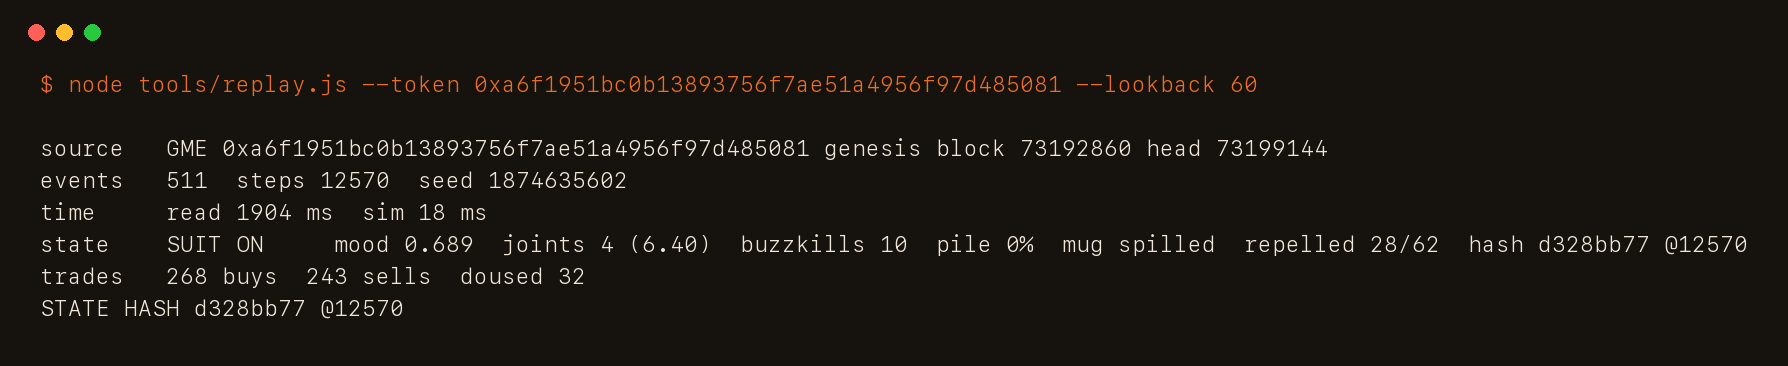
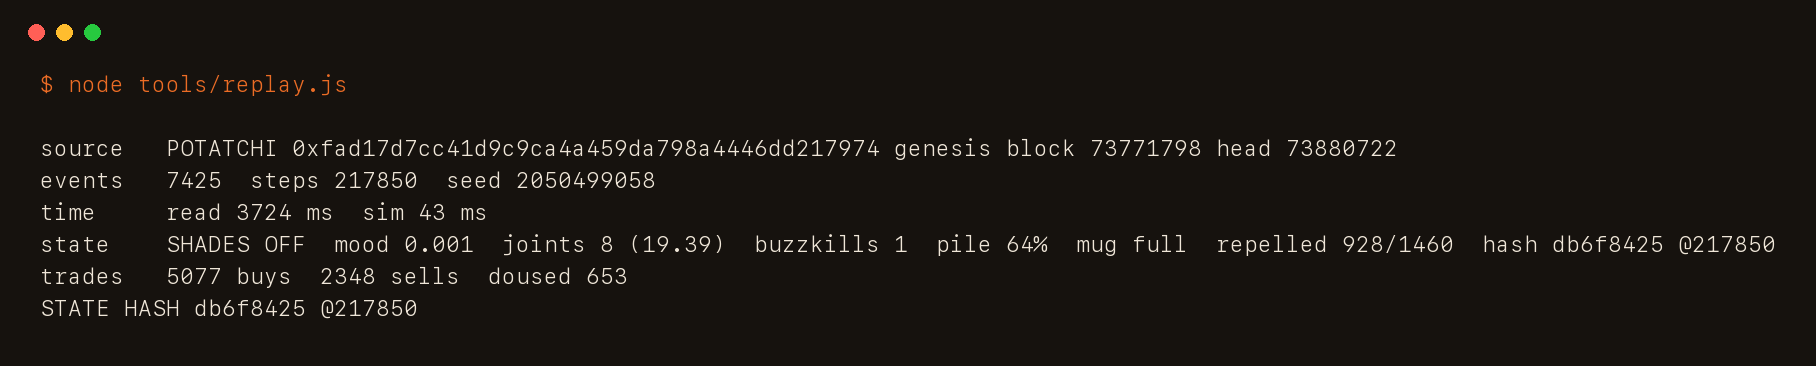
New README images: the live scene, a neuroscan of his brain, the brain plate
tools/scan.js reads the token's trades and prints a scan of the joint's
brain: which regions fired and how often, drawn as a text plate. The old
screenshots with walking buzzkills and the demo band are gone; every image
comes from the current build on POTATCHI.

diff --git a/tools/scan.js b/tools/scan.js
@@ -1,0 +1,86 @@
+// A neuroscan of the joint's brain, read off the chain. It replays the
+// token's trades, counts what each region of the (made-up) brain answered
+// to and prints a scan report with the brain drawn in text, the busier a
+// region the denser its glyphs. The anatomy is a joke; every number in the
+// readings comes from real trades.
+//
+//   node tools/scan.js [0xTOKEN] [--window MIN]
+import { genesis, applyEvent, simStep, simHash, STAGES, SIM } from "../src/engine.js";
+import { DirectFeed } from "../src/feed.js";
+import { REGIONS } from "../src/brain.js";
+import { parseArgs, loadConfig } from "./common.js";
+
+const args = parseArgs();
+const cfg = loadConfig();
+const token = args.token || cfg.token;
+const windowMin = Number(args.window || 30);
+
+const feed = new DirectFeed({ ...cfg, token, lookbackMin: 0 });
+await feed.init();
+const S = genesis(feed.seed);
+const end = feed.safeStep();
+const from = end - windowMin * 1200;
+const hits = { cb1: 0, ember: 0, paranoia: 0, mug: 0, bud: 0, munchie: 0 };
+let buys = 0, sells = 0, i = 0, peak = 0;
+for (let st = 0; st < end; st++) {
+  while (i < feed.events.length && feed.events[i].step <= S.step) {
+    if (feed.events[i].step === S.step) applyEvent(S, feed.events[i]);
+    i++;
+  }
+  simStep(S);
+  if (S.step >= from) {
+    for (const r of S.out) {
+      if (r.t === "trade" && r.eth >= SIM.DUST) {
+        hits.munchie++;
+        if (r.side > 0) { hits.cb1++; buys++; } else { hits.ember++; sells++; }
+      }
+      if (r.t === "kill") hits.paranoia++;
+      if (r.t === "spill" || r.t === "refill") hits.mug++;
+    }
+    peak = Math.max(peak, S.mood);
+  }
+  S.out.length = 0;
+}
+const pile = Math.max(0, 1 - Math.min(1, S.melt) / 0.8);
+hits.bud = Math.round(pile * 100);
+const max = Math.max(1, ...Object.values(hits));
+
+// the brain, as a text plate: each cell belongs to the nearest region
+const W = 58, H = 17;
+const at = { cb1: [0.25, 0.3], mug: [0.21, 0.62], bud: [0.52, 0.18], paranoia: [0.8, 0.34], ember: [0.52, 0.5], munchie: [0.66, 0.9] };
+const ramp = " .:-=+*#%@";
+const lines = [];
+for (let y = 0; y < H; y++) {
+  let row = "";
+  for (let x = 0; x < W; x++) {
+    const u = x / (W - 1), v = y / (H - 1);
+    const cortex = ((u - 0.5) / 0.47) ** 2 + ((v - 0.4) / 0.37) ** 2 < 1;
+    const cereb = ((u - 0.76) / 0.15) ** 2 + ((v - 0.76) / 0.12) ** 2 < 1;
+    const stem = Math.abs(u - (0.62 + (v - 0.7) * 0.2)) < 0.035 && v > 0.66;
+    if (!cortex && !cereb && !stem) { row += " "; continue; }
+    let best = "cb1", bd = Infinity;
+    for (const k in at) {
+      const d = (u - at[k][0]) ** 2 + (v - at[k][1]) ** 2;
+      if (d < bd) { bd = d; best = k; }
+    }
+    const level = hits[best] / max;
+    const n = (Math.sin(x * 12.9898 + y * 78.233) * 43758.5453) % 1;
+    const idx = Math.min(9, Math.max(1, Math.round(level * 8 + Math.abs(n) * 2)));
+    row += ramp[idx];
+  }
+  lines.push(row);
+}
+
+const pad = (s, n) => String(s).padEnd(n);
+const bar = (f) => "█".repeat(Math.round(f * 20)).padEnd(20, "·");
+console.log(`WEEDBRAIN NEUROSCAN v0.4    subject ${feed.meta.symbol} ${feed.meta.token.slice(0, 10)}…    window ${windowMin} min`);
+console.log(`chain 4663 · block ${feed.safeBlk.toLocaleString("en-US")} · state ${simHash(S)} @${S.step}`);
+console.log("");
+for (const l of lines) console.log("    " + l);
+console.log("");
+console.log("REGION            READING               HITS   WHAT FIRED IT");
+const why = { cb1: "buys", ember: "sells", paranoia: "buzzkills sent", mug: "spills and refills", bud: "% of pile left", munchie: "every trade" };
+for (const r of REGIONS) console.log(`${pad(r.name, 17)} ${bar(hits[r.key] / max)}  ${String(hits[r.key]).padStart(4)}   ${why[r.key]}`);
+console.log("");
+console.log(`buys ${buys} · sells ${sells} · peak mood ${STAGES[Math.min(9, Math.floor(peak * 10))]} · now ${STAGES[S.stage]}`);
+console.log(`DIAGNOSIS  ${S.stage <= 2 ? "high, stable, asking for snacks" : S.stage <= 5 ? "soaked and irritable, mug down" : "armed. do not approach"}`);

diff --git a/tools/make-images.py b/tools/make-images.py
@@ -38,7 +38,27 @@ def terminal(out, cmd, text):
     for i, c in enumerate([(255, 95, 86), (255, 189, 46), (39, 201, 63)]):
         d.ellipse((28 + i * 28, 24, 44 + i * 28, 40), fill=c)
     y = 70
+    heat = {c: i for i, c in enumerate(" .:-=+*#%@")}
     for l in lines:
+        if l.startswith("    ") and set(l.strip()) <= set(heat) and l.strip():
+            # a scan plate: each glyph coloured by its density, green to ember
+            x = 40
+            for ch in l:
+                k = heat.get(ch, 0) / 9
+                col = tuple(int(a + (b - a) * k) for a, b in zip((126, 148, 69), (245, 120, 40)))
+                d.text((x, y), ch, font=f, fill=col)
+                x += f.getlength(ch)
+            y += lh
+            continue
+        if "█" in l:
+            head, rest = l[:18], l[18:]
+            d.text((40, y), head, font=f, fill=INK)
+            x = 40 + f.getlength(head)
+            for ch in rest:
+                d.text((x, y), ch, font=f, fill=ORANGE if ch == "█" else DIM)
+                x += f.getlength(ch)
+            y += lh
+            continue
         col = INK
         if l.startswith("$"):
             col = ORANGE
@@ -47,6 +67,10 @@ def terminal(out, cmd, text):
         elif "BUY" in l[:16]:
             col = GREEN
         elif l.startswith("  [") or l.startswith("          "):
+            col = DIM
+        elif l.startswith("DIAGNOSIS") or l.startswith("WEEDBRAIN NEUROSCAN"):
+            col = ORANGE
+        elif l.startswith("REGION") or l.startswith("chain "):
             col = DIM
         if "HASH" in l or "hash" in l.split("  ")[-1:][0]:
             pass

diff --git a/README.md b/README.md
@@ -6,7 +6,7 @@ A giant joint with a burning head lies in a pile of buds and smokes a smaller jo
 Buys throw him joints, sells send buzzkills to put them out, the pile melts with the drawdown and one big sell knocks his mug over.
 Everything he does is computed from the trades of one Pons v2 token on Robinhood Chain and anyone can recompute it.
 
-![The live scene at SHADES OFF: a full pile, joints burning, buzzkills wading in](docs/img/shades.png)
+![The live scene: every trade pops a card over his face, sells in red](docs/img/scene.png)
 
 ## Why a joint
 
@@ -16,13 +16,15 @@ The burning tip on his head is the tell. Calm, it glows. Angry, it flares. It is
 
 The story has a hinge. At first he is flat out in the pile with his shades on, then heavy-eyed, then reaching for his mug. A big sell knocks the mug over and pours it all over him and from there he is angry about something real: soaked, fists, the suit, the gun at the camera, firing and at the very bottom the whole frame blows apart. He does not die. The next buys bring him back and a fresh mug with them.
 
-![A big sell knocks the mug over: SPILLED](docs/img/spilled.png)
+![The neuroscan: his brain read off the last 30 minutes of trades](docs/img/scan.png)
+
+`node tools/scan.js` scans the joint's brain from the chain: every buy lights the CB1 LOBE, every sell the EMBER NUCLEUS, every buzzkill the PARANOIA TRACT, every spill the MUG CORTEX. The anatomy is invented; the readings are counted from real trades.
 
 ## The site
 
 The site is built like a lab instrument, not a crypto landing page: paper background, thin rules, one accent (the ember orange), monospaced tabular numbers everywhere, headings small and rare.
 
-![The first screen: the contract bar and the live specimen](docs/img/site-hero.png)
+![The first screen: the contract and the live specimen](docs/img/site-hero.png)
 
 - **The first screen** is the live specimen. Above it only a short title and, under it, the contract in large type in an ember frame, a copy button and the buy button, which stays inactive until `ca` is set. The header with the buy button stays on top while scrolling.
 - **The counters** under the scene: holders, trades in 24 h, market cap in ETH, the stage, the time in it, the last update and the block.
@@ -30,9 +32,9 @@ The site is built like a lab instrument, not a crypto landing page: paper backgr
 - **The brain of a joint** is a made-up anatomy plate: a point cloud of about 58,000 neurons packed into bud-shaped lumps, with thin shells where the lobes end, drawn with three.js and turning slowly (drag to rotate). Six regions answer to the chain: a buy lights the CB1 LOBE, a sell heats the EMBER NUCLEUS, a buzzkill wakes the PARANOIA TRACT, a spill jolts the MUG CORTEX, the pile sets the BUD GANGLION and the MUNCHIE NERVE never stops. Hovering a region or its label dims the rest and opens a card. Under it three dark instrument panels in the same glow as the brain: a coupling lattice, the buys and sells of the last 5 minutes with the mood trace and LED bars of cell types, all moving with the trades. It says it is a joke under the plate, because it is.
 - **The rest:** the three rules, the ten states (hover plays the clip, the current one is outlined), what this is not, the footer.
 
-![The live specimen](docs/img/site-live.png)
+![The brain of a joint: a point cloud of neurons that flash with the chain](docs/img/brain.png)
 
-![The brain of a joint, the CB1 LOBE hovered](docs/img/site-brain.png)
+![The instrument panels under it](docs/img/panels.png)
 
 Holders are counted by replaying the token's `Transfer` events from its launch block in the browser, because the Blockscout API answers this network with a Cloudflare challenge and the Pons API allows 8 calls a minute. The curve, the pool manager and the zero address are not holders. The market cap is the last trade price times the total supply, in ETH. `weedbrain.html` is the live specimen alone, for a second screen or a stream.
 
@@ -76,15 +78,13 @@ Frames 31-35 do not exist in the art set. Stage 7 starts at frame 36.
 
 Every trade moves him right away: the smallest one stage, the biggest three, buys up the ladder and sells down it. On the 48 hours of HYDX since launch 91.3% of trades moved his mood; the rest hit him at the top or the bottom of the ladder, at a fresh mug or were dust. The mug splits the ladder: the sell that takes him past THE MUG knocks it over and SPILLED plays first and the buy that brings him back above SPILLED brings a fresh one.
 
-![The bottom: BLAST, the pile gone](docs/img/blast.png)
-
 ## The key property
 
 The state is a pure function of three things: the genesis seed, the ordered trade log and the step number. There is no `Math.random` and no clock inside the simulation and it does not care about frame rate. The live page prints a hash of the state in the corner. Two screens on the same step print the same line.
 
-![Desktop at a pixel ratio of 2 and a phone on the same step show the same hash](docs/img/hash.png)
+![A desktop window and a phone on the same step show the same hash](docs/img/hash.png)
 
-Above: a 1280 px window at a device pixel ratio of 2 and a 390 px phone viewport on the same demo step both show `c71f8300 @19004`. On the phone the scene is cropped to its middle square; the state is the same.
+Above: a 1280 px window and a 390 px phone viewport on the same demo step both show `9346f2c5 @5046`. On the phone the scene is cropped to its middle square; the state is the same.
 
 ## Quick start
 
@@ -114,13 +114,12 @@ node tools/watch.js 0xTOKEN              watch a token in the terminal
 node tools/replay.js --token 0xTOKEN     replay its history and print the state
 npm run serve -- --token 0xTOKEN         serve the site on that token
 node tools/find-active.js                list the busiest tokens right now and their stage
+node tools/scan.js                       scan his brain from the last 30 minutes of trades
 ```
 
 For a token that has been trading for a while, `--lookback 60` starts the watch an hour back (rounded down to an hour grid of 36,000 blocks, so viewers in the same hour share a genesis). For my own token the genesis is its launch block.
 
 ![watch.js on a live token](docs/img/watch.png)
-
-![The live page on the same token](docs/img/live.png)
 
 ## Log format
 
@@ -141,17 +140,17 @@ In collector mode a client does not replay from genesis. It reads `data/state.js
 ## Verify
 
 ```
-$ node tools/replay.js --token 0xa6f1951bc0b13893756f7ae51a4956f97d485081 --lookback 60
+$ node tools/replay.js
 ```
 
 ![replay.js prints the state hash](docs/img/replay.png)
 
 The hash `replay.js` prints for a step must be the one the page shows for that step. I checked it four ways on the current engine:
 
-- the live page against replay, direct mode on GME: the page showed `2e3f1698 @10632`, `replay.js --token ... --lookback 60 --to 10632` printed `2e3f1698`
+- the live page against replay, direct mode on POTATCHI from its launch: the page showed `68b917f0 @216589`, `replay.js --to 216589` printed `68b917f0`
 - the collector against replay: the collector wrote `e7b273bb @12268` into `meta.json`, `replay.js --log data/events --to 12268` printed `e7b273bb`
 - the page in SYNC mode against replay: the page showed `7a42cddc @12384`, `replay.js` at step 12384 printed `7a42cddc`
-- two viewports on the demo: `c71f8300 @19004` on both, one of them at a device pixel ratio of 2
+- two viewports on the demo: `9346f2c5 @5046` on both
 
 ## Tests
 
